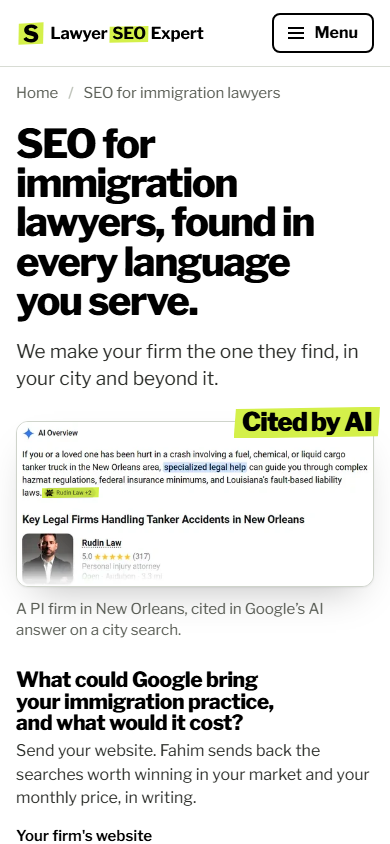
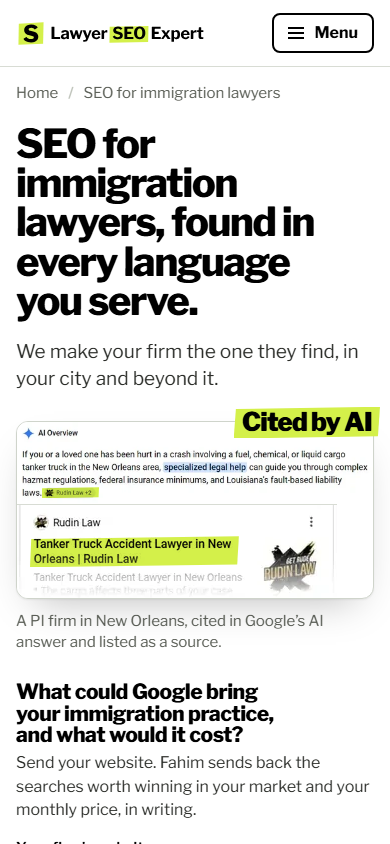
Immigration hero: its own crop (AI answer plus the firm's source card), so it no longer repeats employment's capture
Claude-Session: https://claude.ai/code/session_01BoWcXNnQPrGs4yfsdbaECn

Changed region(s): [[0.0308, 0.5853, 0.9538, 1.0]]

diff --git a/src/data/proof.ts b/src/data/proof.ts
@@ -467,6 +467,8 @@ export const proof = {
     caption: 'Google’s AI answer cites the firm.',
     source: 'nola-tanker-serp-full.webp, cropped to the AI answer column: x 228 to 792, y 292 to 552.',
     marks: { aiChip: [{ l: 7.8, t: 40.4, w: 14.4, h: 5.4 }] },
+    // The answer paragraph only, above the key firms list (the immigration hero; employment shows the key firm).
+    crops: { answer: { top: 0, height: 50 } },
   },
   nolaTankerSerpSource: {
     src: `${P}nola-tanker-serp-source-card.webp`,
@@ -476,6 +478,8 @@ export const proof = {
     caption: 'Its page is listed as a source.',
     source: 'nola-tanker-serp-full.webp, cropped to the source cards: x 848 to 1168, y 332 to 546.',
     marks: { sourceCard: [{ l: 5, t: 71, w: 63.4, h: 13.6 }] },
+    // The firm's own source card only (the immigration hero).
+    crops: { firm: { top: 56, height: 44 } },
   },
 
   // ---------- Hero crops (branch design-3): plain rectangle crops, no pixel changed ----------
